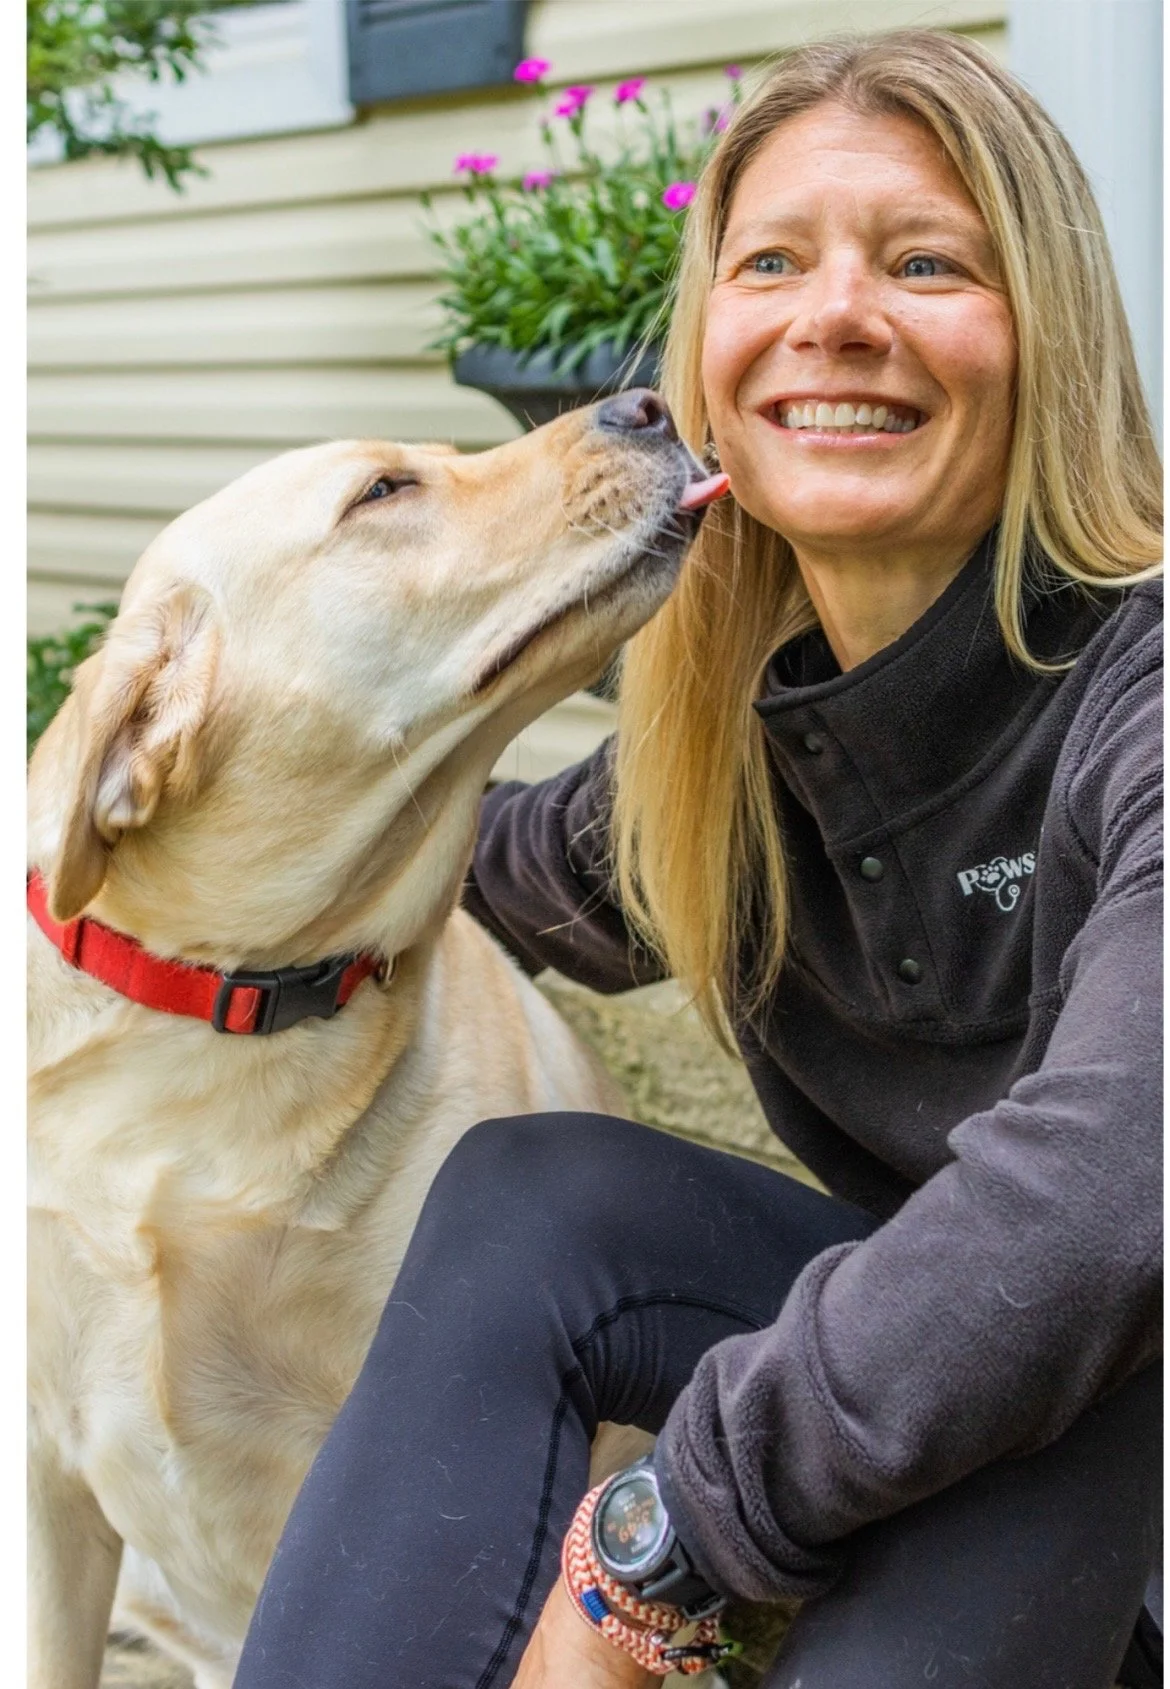
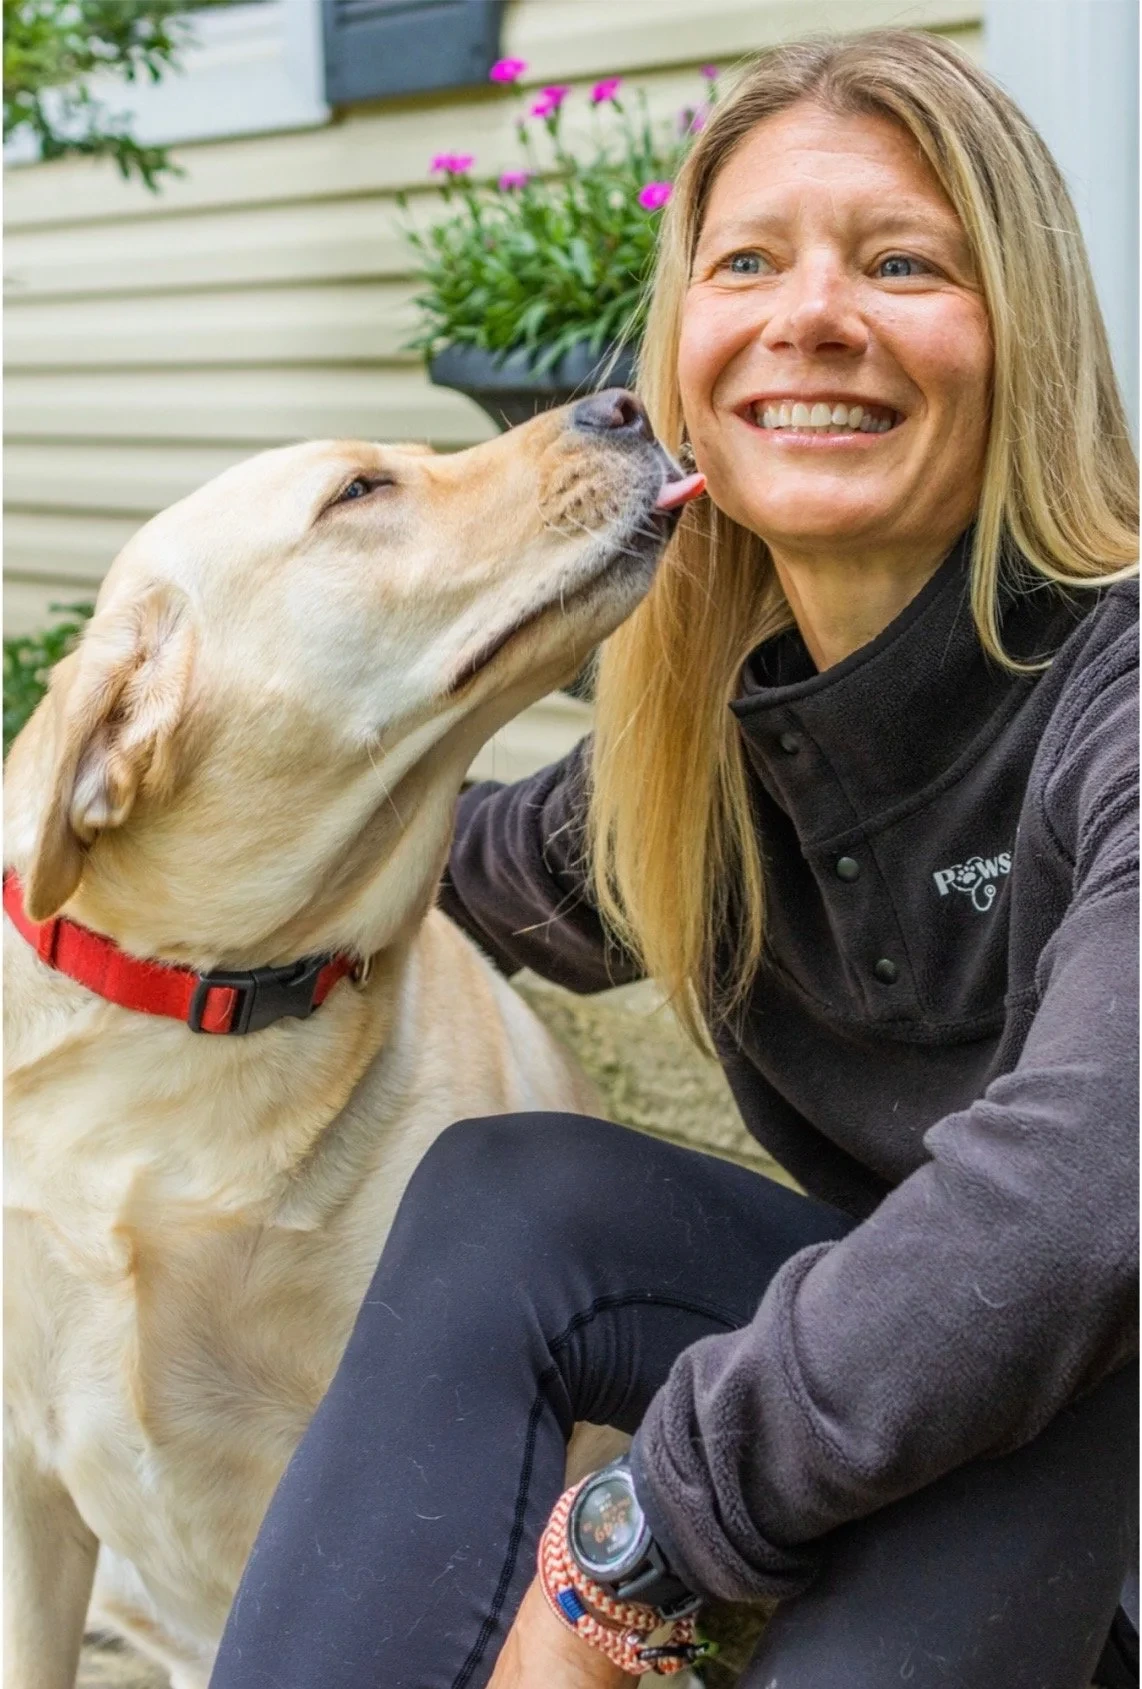
Remove hero image white frame on Dr Paws vet landing.
Trim baked-in white padding from the hero photo and drop the gray backdrop plus box-shadow on image frames so photos sit flush in their rounded containers.

diff --git a/src/styles/vet-landing.css b/src/styles/vet-landing.css
@@ -224,15 +224,15 @@ a.vet-btn-secondary,
   position: relative;
   border-radius: calc(var(--vet-radius) + 0.25rem);
   overflow: hidden;
-  background: #eef0f3;
-  box-shadow: 0 24px 48px rgb(26 27 31 / 0.08);
+  line-height: 0;
 }
 
 .vet-hero__visual img {
+  display: block;
   width: 100%;
-  height: auto;
   aspect-ratio: 4 / 5;
   object-fit: cover;
+  object-position: center top;
 }
 
 @media (min-width: 900px) {
@@ -461,12 +461,12 @@ a.vet-btn-secondary,
 .vet-about__photo {
   border-radius: calc(var(--vet-radius) + 0.25rem);
   overflow: hidden;
-  background: #eef0f3;
+  line-height: 0;
 }
 
 .vet-about__photo img {
+  display: block;
   width: 100%;
-  height: auto;
   aspect-ratio: 4 / 3;
   object-fit: cover;
 }
